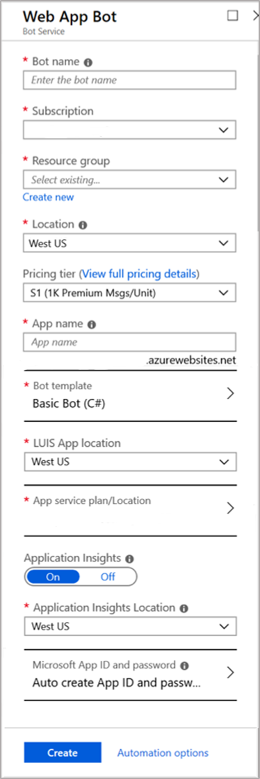
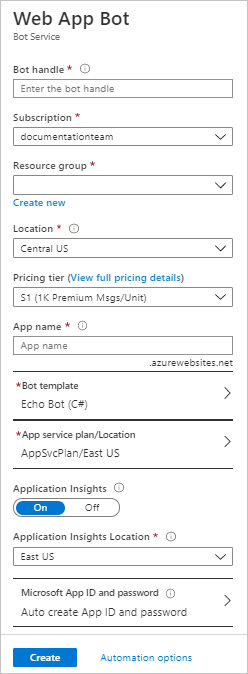
clean up the article

diff --git a/articles/v4sdk/abs-quickstart.md b/articles/v4sdk/abs-quickstart.md
@@ -6,7 +6,7 @@ ms.author: kamrani
 manager: kamrani
 ms.topic: article
 ms.service: bot-service
-ms.date: 01/09/2020
+ms.date: 08/14/2020
 ---
 
 # Create a bot with Azure Bot Service
@@ -15,53 +15,48 @@ ms.date: 01/09/2020
 
 Azure Bot Service provides the core components for creating bots, including the Bot Framework SDK for developing bots and the bot service for connecting bots to channels. In the topic, you'll be able to choose either .NET or Node.js template to create a bot using the Bot Framework SDK v4.
 
->[!NOTE] 
+>[!NOTE]
 > The bot you create is automatically registered with the Azure Bot Service. If you already have a bot hosted elsewhere and you want to register it, see the article: [Register a bot with Azure Bot Service](../bot-service-quickstart-registration.md).
 
 [!INCLUDE [Azure vs local development](~/includes/snippet-quickstart-paths.md)]
 
 ## Prerequisites
 
-- [Azure](https://portal.azure.com) account
+If you don't have an Azure subscription, create a [free account](https://azure.microsoft.com/free) before you begin.
 
 ### Create a new bot service
 
 1. Log in to the [Azure portal](https://portal.azure.com/).
-1. Click **Create new resource** link found on the upper left-hand corner of the Azure portal, then select **AI + Machine Learning** > **Web App bot**. 
+1. Select **Create a resource**.
+1. Select **AI + Machine Learning** > **Web App Bot**.
+1. Select or enter the following information:
 
-![create bot](../media/azure-bot-quickstarts/abs-create-blade.png)
+    | Setting | Suggested value | Description |
+    | ---- | ---- | ---- |
+    | **Bot handle** | Your bot's display name | The display name for the bot that appears in channels and directories. This name can be changed at anytime. |
+    | **Subscription** | Your subscription | Select the Azure subscription you want to use. |
+    | **Resource Group** | myResourceGroup | You can create a new [resource group](/azure/azure-resource-manager/resource-group-overview#resource-groups) or choose from an existing one. |
+    | **Location** | The default location | Select the geographic location for your resource group. Your location choice can be any location listed, though it's often best to choose a location closest to your customer. The location cannot be changed once the bot is created. |
+    | **Pricing tier** | F0 | Select a pricing tier. You may update the pricing tier at any time. For more information, see [Bot Service pricing](https://azure.microsoft.com/pricing/details/bot-service/). |
+    | **App name** | A unique name | The unique URL name of the bot. For example, if you name your bot *myawesomebot*, then your bot's URL will be `http://myawesomebot.azurewebsites.net`. The name must use alphanumeric and underscore characters only. There is a 35 character limit to this field. The App name cannot be changed once the bot is created. |
+    | **Bot template** | Echo bot | Choose **SDK v4**. Select either C# or Node.js for this quickstart, then click **Select**.
+    | **App service plan/Location** | Your app service plan  | Select an [app service plan](https://azure.microsoft.com/pricing/details/app-service/plans/) location. Your location choice can be any location listed, though it's often best to choose the same location as the bot service. |
+    | **LUIS Accounts** _Only available for Basic Bot template_ | LUIS Azure Resource Name | After [migrating LUIS Resources over to an Azure Resource](https://docs.microsoft.com/azure/cognitive-services/luis/luis-migration-authoring), input the Azure Resource name to associate this LUIS Application with that Azure Resource.
+    | **Application Insights** | On | Decide if you want to turn [Application Insights](/bot-framework/bot-service-manage-analytics) **On** or **Off**. If you select **On**, you must also specify a regional location. Your location choice can be any location listed, though it's often best to choose the same location as the bot service. |
+    | **Microsoft App ID and password** | Auto create App ID and password | Use this option if you need to manually enter a Microsoft App ID and password. Otherwise, a new Microsoft App ID and password will be created for you in the bot creation process. When creating an app registration manually for the Bot Service, please ensure that the supported account types is set to ‘Accounts in any organizational directory’ or ‘Accounts in any organizational directory and personal Microsoft accounts (e.g. Skype, Outlook.com, Xbox, etc.)’ |
 
-2. A *new blade* will open with information about the **Web App Bot**.  
-
-3. In the **Bot Service** blade, provide the requested information about your bot as specified in the table below the image.  <br/>
- ![Create Web App Bot blade](../media/azure-bot-quickstarts/sdk-create-bot-service-blade.png)
-
- | Setting | Suggested value | Description |
- | ---- | ---- | ---- |
- | **Bot name** | Your bot's display name | The display name for the bot that appears in channels and directories. This name can be changed at anytime. |
- | **Subscription** | Your subscription | Select the Azure subscription you want to use. |
- | **Resource Group** | myResourceGroup | You can create a new [resource group](/azure/azure-resource-manager/resource-group-overview#resource-groups) or choose from an existing one. |
- | **Location** | The default location | Select the geographic location for your resource group. Your location choice can be any location listed, though it's often best to choose a location closest to your customer. The location cannot be changed once the bot is created. |
- | **Pricing tier** | F0 | Select a pricing tier. You may update the pricing tier at any time. For more information, see [Bot Service pricing](https://azure.microsoft.com/pricing/details/bot-service/). |
- | **App name** | A unique name | The unique URL name of the bot. For example, if you name your bot *myawesomebot*, then your bot's URL will be `http://myawesomebot.azurewebsites.net`. The name must use alphanumeric and underscore characters only. There is a 35 character limit to this field. The App name cannot be changed once the bot is created. |
- | **Bot template** | Echo bot | Choose **SDK v4**. Select either C# or Node.js for this quickstart, then click **Select**.  
- | **App service plan/Location** | Your app service plan  | Select an [app service plan](https://azure.microsoft.com/pricing/details/app-service/plans/) location. Your location choice can be any location listed, though it's often best to choose the same location as the bot service. |
- | **LUIS Accounts** _Only available for Basic Bot template_ | LUIS Azure Resource Name | After [migrating LUIS Resources over to an Azure Resource](https://docs.microsoft.com/azure/cognitive-services/luis/luis-migration-authoring), input the Azure Resource name to associate this LUIS Application with that Azure Resource. 
- | **Application Insights** | On | Decide if you want to turn [Application Insights](/bot-framework/bot-service-manage-analytics) **On** or **Off**. If you select **On**, you must also specify a regional location. Your location choice can be any location listed, though it's often best to choose the same location as the bot service. |
- | **Microsoft App ID and password** | Auto create App ID and password | Use this option if you need to manually enter a Microsoft App ID and password. Otherwise, a new Microsoft App ID and password will be created for you in the bot creation process. When creating an app registration manually for the Bot Service, please ensure that the supported account types is set to ‘Accounts in any organizational directory’ or ‘Accounts in any organizational directory and personal Microsoft accounts (e.g. Skype, Outlook.com, Xbox, etc.)’ |
-
-4. Click **Create** to create the service and deploy the bot to the cloud. This process may take several minutes.
-
-Confirm that the bot has been deployed by checking the **Notifications**. The notifications will change from **Deployment in progress...** to **Deployment succeeded**. Click **Go to resource** button to open the bot's resources blade.
+1. Click **Create** to create the service and deploy the bot to the cloud. This process may take several minutes. Confirm that the bot has been deployed by selecting **Notifications**. The notifications change from **Deployment in progress...** to **Deployment succeeded**. Select **Go to resource** button to open the bot's resources blade.
 
 Now that your bot is created, test it in Web Chat.
 
 ## Test the bot
-In the **Bot Management** section, click **Test in Web Chat**. Azure Bot Service will load the Web Chat control and connect to your bot. 
+
+1. From the Azure portal, select the Web app bot that you created.
+1. In the **Bot Management** section in the left, select **Test in Web Chat**. Azure Bot Service will load the Web Chat control and connect to your bot.
 
 ![Azure Webchat test](../media/azure-bot-quickstarts/azure-webchat-test.png)
 
-Enter a message and your bot should respond.
+1. Enter a message and your bot should respond.
 
 ## Manual app registration
 
@@ -72,13 +67,15 @@ A manual registration is necessary for situations like:
 
 See [FAQ - App Registration](../bot-service-resources-bot-framework-faq.md#app-registration).
 
-
 ## Download code
-You can download the code to work on it locally. 
-1. In the **Bot Management** section, click **Build**. 
-1. Click on **Download Bot source code** link in the right-pane. 
+
+You can download the code to work on it locally.
+
+1. In the **Bot Management** section, click **Build**.
+1. Click on **Download Bot source code** link in the right-pane.
 1. Follow the prompts to download the code, and then unzip the folder.
     1. [!INCLUDE [download keys snippet](../includes/snippet-abs-key-download.md)]
 
 ## Next steps
+
 After you download the code, you can continue to develop the bot locally on your machine. Once you test your bot and are ready to upload the bot code to the Azure portal, follow the instructions listed under [set up continous deployment](../bot-service-build-continuous-deployment.md) topic to automatically update code after you make changes.
